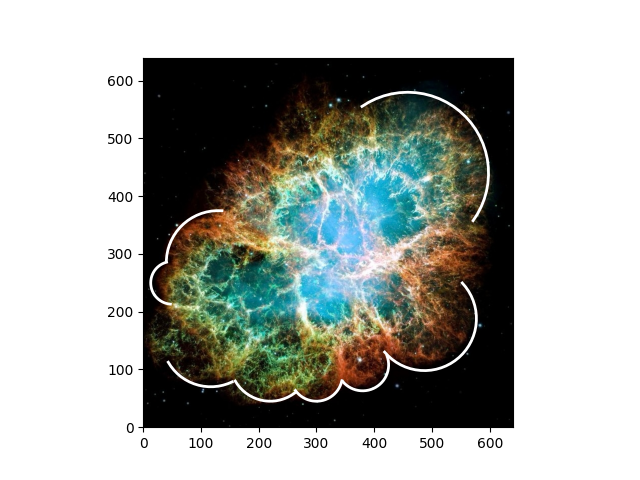
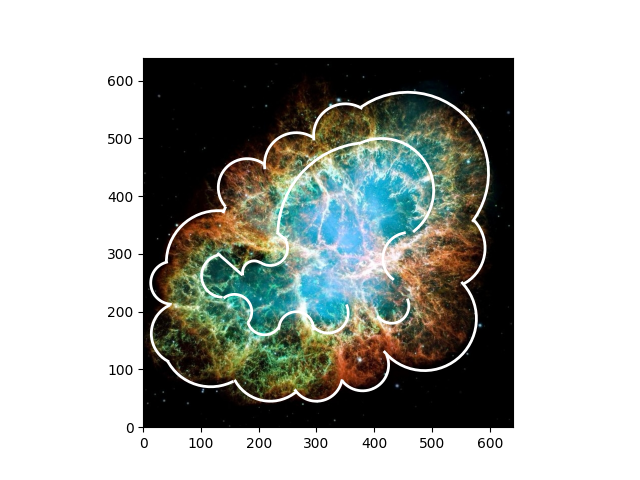
почти внутри сделано

diff --git a/my_project_stage_1/slide_3_paint_on_crab.py b/my_project_stage_1/slide_3_paint_on_crab.py
@@ -13,13 +13,13 @@ def circle(R, x0, y0, starst, stop, step):
     return x, y
 
 
-# plt.plot([142, 139], [380, 373], lw=2, color='w')
-# plt.savefig('slide_2_paint_image.png')
+plt.plot([142, 139], [380, 373], lw=2, color='w')
+plt.savefig('slide_2_paint_image.png')
 
 
-# coords = circle(54, 68, 162, np.pi/2+np.pi/7, 3*np.pi/2.2, 0.1)
-# plt.plot(coords[0], coords[1], lw=2, color='w')
-# plt.savefig('slide_2_paint_image.png')
+coords = circle(54, 68, 162, np.pi/2+np.pi/7, 3*np.pi/2.2, 0.1)
+plt.plot(coords[0], coords[1], lw=2, color='w')
+plt.savefig('slide_2_paint_image.png')
 
 coords = circle(37, 50, 250, np.pi/3+np.pi/4, 3*np.pi/2, 0.1)
 plt.plot(coords[0], coords[1], lw=2, color='w')
@@ -29,27 +29,27 @@ coords = circle(90, 180, 280, np.pi/np.pi+0.5, 2*np.pi-np.pi/1.01, 0.1)
 plt.plot(coords[0] - 50, coords[1] + 5, lw=2, color='w')
 plt.savefig('slide_2_paint_image.png')
 
-# coords = circle(50, 230, 410, np.pi/np.pi+0.01, 2*np.pi-np.pi/1.3, 0.1)
-# plt.plot(coords[0] - 50, coords[1] + 5, lw=2, color='w')
-# plt.savefig('slide_2_paint_image.png')
+coords = circle(50, 230, 410, np.pi/np.pi+0.01, 2*np.pi-np.pi/1.3, 0.1)
+plt.plot(coords[0] - 50, coords[1] + 5, lw=2, color='w')
+plt.savefig('slide_2_paint_image.png')
 
 
-# coords = circle(55, 315, 450, np.pi/np.pi+0.05, 2*np.pi-np.pi/1.05, 0.1)
-# plt.plot(coords[0] - 50, coords[1] + 5, lw=2, color='w')
-# plt.savefig('slide_2_paint_image.png')
+coords = circle(55, 315, 450, np.pi/np.pi+0.05, 2*np.pi-np.pi/1.05, 0.1)
+plt.plot(coords[0] - 50, coords[1] + 5, lw=2, color='w')
+plt.savefig('slide_2_paint_image.png')
 
-# coords = circle(55, 400, 500, np.pi/np.pi+0.05, 2*np.pi-np.pi/1.05, 0.1)
-# plt.plot(coords[0] - 50, coords[1] + 5, lw=2, color='w')
-# plt.savefig('slide_2_paint_image.png')
+coords = circle(55, 400, 500, np.pi/np.pi+0.05, 2*np.pi-np.pi/1.05, 0.1)
+plt.plot(coords[0] - 50, coords[1] + 5, lw=2, color='w')
+plt.savefig('slide_2_paint_image.png')
 
 
 coords = circle(140, 458, 440, 2*np.pi-np.pi/5, 2*np.pi+np.pi/1.4, 0.1)
 plt.plot(coords[0], coords[1], lw=2, color='w')
 plt.savefig('slide_2_paint_image.png')
 
-# coords = circle(70, 522, 310, 2*np.pi-np.pi/3, 2*np.pi+np.pi/4, 0.1)
-# plt.plot(coords[0], coords[1], lw=2, color='w')
-# plt.savefig('slide_2_paint_image.png')
+coords = circle(70, 522, 310, 2*np.pi-np.pi/3, 2*np.pi+np.pi/4, 0.1)
+plt.plot(coords[0], coords[1], lw=2, color='w')
+plt.savefig('slide_2_paint_image.png')
 
 
 coords = circle(70, 220, 115, np.pi+np.pi/6, 2*np.pi-np.pi/3.5, 0.1)
@@ -72,6 +72,61 @@ coords = circle(90, 487, 188, np.pi+np.pi/4.5, 2*np.pi+np.pi/4, 0.1)
 plt.plot(coords[0], coords[1], lw=2, color='w')
 plt.savefig('slide_2_paint_image.png')
 
+#----------------------------------------------------
+# это то что внутри
+
+coords = circle(90, 413, 410, np.pi+np.pi/1.4, 2*np.pi+np.pi/1.5, 0.1)
+plt.plot(coords[0], coords[1], lw=2, color='w')
+plt.savefig('slide_2_paint_image.png')
+
+coords = circle(160, 443, 328, np.pi/np.pi+0.7, 2*np.pi-np.pi, 0.1)
+plt.plot(coords[0] - 50, coords[1] + 5, lw=2, color='w')
+plt.savefig('slide_2_paint_image.png')
+
+plt.plot([233, 247], [336, 325], lw=2, color='w')
+plt.savefig('slide_2_paint_image.png')
+
+coords = circle(30, 220, 310, 2*np.pi-np.pi/1.5, 2*np.pi+np.pi/6, 0.1)
+plt.plot(coords[0], coords[1], lw=2, color='w')
+plt.savefig('slide_2_paint_image.png')
+
+coords = circle(20, 242, 263, np.pi/np.pi+0.08, 2*np.pi-np.pi/1.08, 0.1)
+plt.plot(coords[0] - 50, coords[1] + 5, lw=2, color='w')
+plt.savefig('slide_2_paint_image.png')
+
+plt.plot([170, 130], [265, 300], lw=2, color='w')
+plt.savefig('slide_2_paint_image.png')
+
+coords = circle(37, 138, 262, np.pi/3+np.pi/4, 3*np.pi/2, 0.1)
+plt.plot(coords[0], coords[1], lw=2, color='w')
+plt.savefig('slide_2_paint_image.png')
+
+
+coords = circle(30, 158, 200, 2*np.pi-np.pi/5, 2*np.pi+np.pi/1.4, 0.1)
+plt.plot(coords[0], coords[1], lw=2, color='w')
+plt.savefig('slide_2_paint_image.png')
+
+
+coords = circle(30, 210, 190, np.pi+np.pi/8, 2*np.pi-np.pi/5, 0.1)
+plt.plot(coords[0], coords[1], lw=2, color='w')
+plt.savefig('slide_2_paint_image.png')
+
+coords = circle(30, 315, 165, np.pi/np.pi-1, 2*np.pi-np.pi/1, 0.1)
+plt.plot(coords[0] - 50, coords[1] + 5, lw=2, color='w')
+plt.savefig('slide_2_paint_image.png')
+
+
+coords = circle(35, 320, 198, np.pi+np.pi/4.5, 2*np.pi+np.pi/8, 0.1)
+plt.plot(coords[0], coords[1], lw=2, color='w')
+plt.savefig('slide_2_paint_image.png')
+
+
+coords = circle(30, 430, 210, np.pi+np.pi/4.5, 2*np.pi+np.pi/8, 0.1)
+plt.plot(coords[0], coords[1], lw=2, color='w')
+plt.savefig('slide_2_paint_image.png')
 
 
 
+coords = circle(45, 460, 292, np.pi/3+np.pi/4.5, 3*np.pi/2.2, 0.1)
+plt.plot(coords[0], coords[1], lw=2, color='w')
+plt.savefig('slide_2_paint_image.png')
